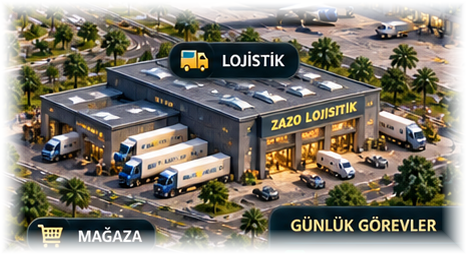
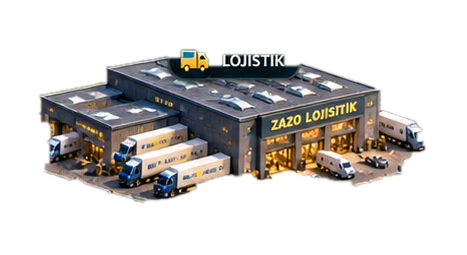
Add files via upload

diff --git a/index.html b/index.html
@@ -3,7 +3,7 @@
 <head>
 <meta charset="utf-8">
 <meta name="viewport" content="width=device-width,initial-scale=1,viewport-fit=cover">
-<title>ZAZO TYCOON 2.3.2 — Clean City</title>
+<title>ZAZO TYCOON 2.4.0 — True Sprite City</title>
 <style>
 *{box-sizing:border-box}
 :root{--gold:#e8be59;--gold2:#ffe8a8;--ink:#030a10;--line:#81662f;--panel:#081d29;--muted:#9fb2ba;--white:#f4f8fa;--danger:#ff8383;--ok:#68dfa1}
@@ -283,7 +283,7 @@ html{background:#02070b}
 body{-webkit-tap-highlight-color:transparent;-webkit-touch-callout:none}
 button{touch-action:manipulation}
 .finalVersion{display:inline-flex;align-items:center;gap:6px;padding:5px 8px;border-radius:999px;border:1px solid #8a6b32;background:#061821d9;color:#ffe2a0;font-size:9px;font-weight:900;letter-spacing:.8px}
-.introTitle:after{content:"2.3.2";display:inline-block;margin-left:10px;font-size:9px;letter-spacing:2px;padding:5px 7px;border-radius:999px;border:1px solid #8d6f34;vertical-align:middle;color:#ffe6a6}
+.introTitle:after{content:"2.4.0";display:inline-block;margin-left:10px;font-size:9px;letter-spacing:2px;padding:5px 7px;border-radius:999px;border:1px solid #8d6f34;vertical-align:middle;color:#ffe6a6}
 .startBrand small{color:#d9c58f}
 @media(max-width:900px){
   .introTitle:after{display:block;width:max-content;margin:10px 0 0}
@@ -563,6 +563,9 @@ button{touch-action:manipulation}
  .aLogistics{right:0;width:18%}.aAirport{right:0;width:24%}
 }
 
+
+/* 2.4 TRUE SPRITES */
+.assetBuilding{border:0!important;background:transparent!important;box-shadow:none!important;overflow:visible!important;border-radius:0!important}.assetBuilding img{width:100%!important;height:100%!important;object-fit:contain!important;filter:drop-shadow(0 16px 9px #0009) saturate(1.06)!important}.assetBuilding:after{display:none!important}.assetLabel{bottom:-12px!important}.aHolding{left:44%;top:25%;width:12%;height:38%}.aBank{left:59%;top:38%;width:12%;height:24%}.aAirport{right:1%;top:27%;width:23%;height:26%}.aLogistics{right:3%;top:53%;width:20%;height:21%}.aStore{right:24%;top:64%;width:16%;height:19%}.aDepot{left:47%;top:64%;width:17%;height:19%}.aFactory{left:25%;top:55%;width:21%;height:29%}.aPort{left:2%;top:43%;width:22%;height:33%}.aTech{left:30%;top:31%;width:13%;height:25%}.aConstruction{left:10%;top:29%;width:18%;height:25%}
 </style>
 </head>
 <body>
@@ -584,7 +587,7 @@ button{touch-action:manipulation}
 
 <div id="start" class="start hidden">
   <div class="startCard">
-    <div class="startBrand">ZAZO TYCOON<small>BUSINESS EMPIRE — 2.3.2</small></div>
+    <div class="startBrand">ZAZO TYCOON<small>BUSINESS EMPIRE — 2.4.0</small></div>
     <div class="startGrid">
       <div class="panel"><h3>İlk şirketini seç</h3><div id="starterSectors" class="sectorPick"></div></div>
       <div class="panel">
@@ -599,7 +602,7 @@ button{touch-action:manipulation}
 </div>
 
 <div id="game" class="game hidden">
-<header class="top"><div class="logo">♛ ZAZO TYCOON<small>BUSINESS EMPIRE — 2.3.2</small></div><div class="hud"><div class="chip">Holding <b id="holding"></b></div><div class="chip">Grup <b id="group"></b></div><div class="chip">Gün <b id="day"></b></div></div></header>
+<header class="top"><div class="logo">♛ ZAZO TYCOON<small>BUSINESS EMPIRE — 2.4.0</small></div><div class="hud"><div class="chip">Holding <b id="holding"></b></div><div class="chip">Grup <b id="group"></b></div><div class="chip">Gün <b id="day"></b></div></div></header>
 <div class="layout"><aside id="rail" class="rail"></aside><main><div class="head"><button id="back" class="back">← Geri</button><div><h1 id="title"></h1><p id="subtitle"></p></div></div><div id="stats" class="stats"></div><div id="stage" class="stage"></div><div id="bottom" class="bottom"></div></main></div>
 </div>
 
@@ -610,7 +613,7 @@ button{touch-action:manipulation}
 const SECTORS=[{"id": "textile", "name": "ZAZO TEKSTİL", "label": "Tekstil", "icon": "🧵", "unlock": 0, "startCash": 2500000, "world": "assets/textile.jpg", "products": [{"name": "Tişört", "raw": "Pamuk + İplik", "rawCost": 70, "makeCost": 22, "basePrice": 220, "baseDemand": 82}, {"name": "Gömlek", "raw": "Kumaş + İplik", "rawCost": 105, "makeCost": 34, "basePrice": 360, "baseDemand": 68}, {"name": "Pantolon", "raw": "Kumaş", "rawCost": 135, "makeCost": 45, "basePrice": 480, "baseDemand": 60}, {"name": "Mont", "raw": "Kumaş + Dolgu", "rawCost": 260, "makeCost": 85, "basePrice": 950, "baseDemand": 44}, {"name": "Premium Takım", "raw": "Premium Kumaş", "rawCost": 420, "makeCost": 160, "basePrice": 1650, "baseDemand": 31}, {"name": "Spor Giyim Seti", "raw": "Teknik Kumaş", "rawCost": 210, "makeCost": 74, "basePrice": 780, "baseDemand": 52}]}, {"id": "construction", "name": "ZAZO İNŞAAT", "label": "İnşaat", "icon": "🏗", "unlock": 18000000, "startCash": 7000000, "world": "assets/construction.jpg", "products": [{"name": "Daire Projesi", "raw": "Demir + Beton", "rawCost": 1700000, "makeCost": 950000, "basePrice": 4200000, "baseDemand": 55}, {"name": "Villa Projesi", "raw": "Yapı Paketi", "rawCost": 2600000, "makeCost": 1400000, "basePrice": 6500000, "baseDemand": 38}, {"name": "Ofis Projesi", "raw": "Demir + Cam + Beton", "rawCost": 3300000, "makeCost": 1750000, "basePrice": 8200000, "baseDemand": 33}, {"name": "Ticari Plaza", "raw": "Yapı + Mekanik Paket", "rawCost": 6400000, "makeCost": 3900000, "basePrice": 15500000, "baseDemand": 20}]}, {"id": "food", "name": "ZAZO GIDA", "label": "Gıda", "icon": "🥫", "unlock": 5000000, "startCash": 2200000, "world": "assets/food.jpg", "products": [{"name": "Hazır Gıda Kolisi", "raw": "Gıda Hammaddesi", "rawCost": 90, "makeCost": 40, "basePrice": 285, "baseDemand": 88}, {"name": "Premium Paket", "raw": "Kaliteli Hammadde", "rawCost": 145, "makeCost": 55, "basePrice": 430, "baseDemand": 63}, {"name": "Dondurulmuş Ürün", "raw": "Gıda + Soğuk Zincir", "rawCost": 175, "makeCost": 75, "basePrice": 520, "baseDemand": 59}, {"name": "İçecek Paketi", "raw": "İçecek Hammaddesi", "rawCost": 120, "makeCost": 42, "basePrice": 360, "baseDemand": 72}, {"name": "Organik Seri", "raw": "Organik Hammadde", "rawCost": 230, "makeCost": 90, "basePrice": 690, "baseDemand": 47}]}, {"id": "auto", "name": "ZAZO OTOMOTİV", "label": "Otomotiv", "icon": "🚗", "unlock": 35000000, "startCash": 12000000, "world": "assets/auto.jpg", "products": [{"name": "Şehir Otomobili", "raw": "Parça Seti", "rawCost": 420000, "makeCost": 170000, "basePrice": 980000, "baseDemand": 58}, {"name": "SUV", "raw": "SUV Parça Seti", "rawCost": 620000, "makeCost": 240000, "basePrice": 1450000, "baseDemand": 46}, {"name": "Elektrikli Sedan", "raw": "EV Parça Seti", "rawCost": 880000, "makeCost": 360000, "basePrice": 1980000, "baseDemand": 40}, {"name": "Premium SUV", "raw": "Premium SUV Parça Seti", "rawCost": 1150000, "makeCost": 450000, "basePrice": 2600000, "baseDemand": 28}, {"name": "Hafif Ticari", "raw": "Ticari Parça Seti", "rawCost": 590000, "makeCost": 220000, "basePrice": 1320000, "baseDemand": 46}]}, {"id": "tech", "name": "ZAZO TEKNOLOJİ", "label": "Teknoloji", "icon": "💻", "unlock": 18000000, "startCash": 4200000, "world": "assets/tech.jpg", "products": [{"name": "Akıllı Telefon", "raw": "Elektronik Parça", "rawCost": 5200, "makeCost": 2300, "basePrice": 14800, "baseDemand": 75}, {"name": "Dizüstü Bilgisayar", "raw": "Bilgisayar Parçası", "rawCost": 12800, "makeCost": 5100, "basePrice": 32900, "baseDemand": 54}, {"name": "Tablet", "raw": "Elektronik Parça", "rawCost": 7300, "makeCost": 2900, "basePrice": 19800, "baseDemand": 60}, {"name": "Akıllı Saat", "raw": "Mikro Elektronik", "rawCost": 2500, "makeCost": 1100, "basePrice": 8200, "baseDemand": 69}, {"name": "Oyun Bilgisayarı", "raw": "Yüksek Performans Parçası", "rawCost": 25500, "makeCost": 8200, "basePrice": 59900, "baseDemand": 35}]}, {"id": "logistics", "name": "ZAZO LOJİSTİK", "label": "Lojistik", "icon": "🚚", "unlock": 8500000, "startCash": 3000000, "world": "assets/logistics.jpg", "products": [{"name": "Şehir İçi Sefer", "raw": "Yakıt + Operasyon", "rawCost": 5200, "makeCost": 1800, "basePrice": 12800, "baseDemand": 84}, {"name": "Uzun Yol Seferi", "raw": "Yakıt + Otoyol", "rawCost": 12000, "makeCost": 4200, "basePrice": 28500, "baseDemand": 62}, {"name": "Soğuk Zincir Seferi", "raw": "Yakıt + Soğutma", "rawCost": 15500, "makeCost": 5800, "basePrice": 36500, "baseDemand": 54}, {"name": "Express Teslimat", "raw": "Yakıt + Öncelikli Operasyon", "rawCost": 8700, "makeCost": 4200, "basePrice": 22800, "baseDemand": 71}, {"name": "Ağır Yük Operasyonu", "raw": "Yakıt + Ağır Nakliye", "rawCost": 24500, "makeCost": 9600, "basePrice": 56500, "baseDemand": 39}]}, {"id": "aviation", "name": "ZAZO HAVACILIK", "label": "Havacılık", "icon": "✈", "unlock": 90000000, "startCash": 25000000, "world": "assets/aviation.jpg", "products": [{"name": "İç Hat Uçuşu", "raw": "Yakıt + Operasyon", "rawCost": 155000, "makeCost": 72000, "basePrice": 390000, "baseDemand": 57}, {"name": "Dış Hat Uçuşu", "raw": "Yakıt + Operasyon", "rawCost": 280000, "makeCost": 125000, "basePrice": 680000, "baseDemand": 43}, {"name": "Premium Yolcu Uçuşu", "raw": "Yakıt + Premium Servis", "rawCost": 420000, "makeCost": 180000, "basePrice": 980000, "baseDemand": 34}, {"name": "Kargo Uçuşu", "raw": "Yakıt + Kargo Operasyonu", "rawCost": 320000, "makeCost": 145000, "basePrice": 790000, "baseDemand": 49}]}, {"id": "space", "name": "ZAZO UZAY", "label": "Uzay", "icon": "🚀", "unlock": 180000000, "startCash": 70000000, "world": "assets/space.jpg", "products": [{"name": "Uydu Fırlatma", "raw": "Roket Bileşeni", "rawCost": 4200000, "makeCost": 2800000, "basePrice": 11800000, "baseDemand": 32}, {"name": "Yörünge Görevi", "raw": "Görev Paketi", "rawCost": 6800000, "makeCost": 4500000, "basePrice": 18500000, "baseDemand": 22}, {"name": "Ay Görevi", "raw": "Derin Uzay Paketi", "rawCost": 14500000, "makeCost": 8500000, "basePrice": 38000000, "baseDemand": 10}, {"name": "Uydu Takımyıldızı", "raw": "Uydu Platformu", "rawCost": 9200000, "makeCost": 5200000, "basePrice": 24500000, "baseDemand": 18}]}, {"id": "energy", "name": "ZAZO ENERJİ", "label": "Enerji", "icon": "⚡", "unlock": 65000000, "startCash": 18000000, "world": "assets/energy.jpg", "products": [{"name": "Şebeke Enerjisi", "raw": "Enerji Kaynağı", "rawCost": 820, "makeCost": 390, "basePrice": 2400, "baseDemand": 80}, {"name": "Yeşil Enerji Paketi", "raw": "Yenilenebilir Kaynak", "rawCost": 1150, "makeCost": 470, "basePrice": 3300, "baseDemand": 66}, {"name": "Güneş Enerjisi Paketi", "raw": "Panel + İnverter", "rawCost": 1650, "makeCost": 710, "basePrice": 4800, "baseDemand": 61}, {"name": "Rüzgar Enerjisi Paketi", "raw": "Türbin Bileşeni", "rawCost": 2800, "makeCost": 1250, "basePrice": 7600, "baseDemand": 49}, {"name": "Endüstriyel Enerji Sözleşmesi", "raw": "Şebeke Operasyonu", "rawCost": 5200, "makeCost": 2200, "basePrice": 13500, "baseDemand": 38}]}, {"id": "mining", "name": "ZAZO MADENCİLİK", "label": "Madencilik", "icon": "⛏", "unlock": 65000000, "startCash": 14000000, "world": "assets/mining.jpg", "products": [{"name": "Demir Cevheri", "raw": "Saha Operasyonu", "rawCost": 1450, "makeCost": 850, "basePrice": 3900, "baseDemand": 70}, {"name": "Bakır Konsantresi", "raw": "Bakır Sahası", "rawCost": 2600, "makeCost": 1350, "basePrice": 6900, "baseDemand": 52}, {"name": "Altın Konsantresi", "raw": "Altın Sahası", "rawCost": 7200, "makeCost": 3500, "basePrice": 18200, "baseDemand": 29}, {"name": "Lityum Cevheri", "raw": "Lityum Sahası", "rawCost": 4800, "makeCost": 2250, "basePrice": 12500, "baseDemand": 45}, {"name": "Nikel Konsantresi", "raw": "Nikel Sahası", "rawCost": 3600, "makeCost": 1700, "basePrice": 9400, "baseDemand": 52}]}];
 const KEY='zazoTycoon_1_0_6';
 
-const RELEASE={name:'ZAZO TYCOON — Business Empire',version:'2.3.2',channel:'stable',build:'2026-09-19'};
+const RELEASE={name:'ZAZO TYCOON — Business Empire',version:'2.4.0',channel:'stable',build:'2026-09-19'};
 
 
 const CONTENT={
@@ -735,7 +738,7 @@ function save(){
   if(window.__offlineBatch)return;
   try{
     normalizeState();
-    state.lastSaved=Date.now();state._version='2.3.2';
+    state.lastSaved=Date.now();state._version='2.4.0';
     const raw=JSON.stringify(state),prev=localStorage.getItem(KEY);
     if(prev && prev!==raw)localStorage.setItem(KEY+'_backup',prev);
     localStorage.setItem(KEY,raw);localStorage.removeItem(KEY+'_skipLegacy');
@@ -1970,7 +1973,7 @@ function releaseTestPanel(){
 function achievementPanel(){openOverlay('🏆 BAŞARILAR','İmparatorluk kilometre taşları.',rows([['İlk şirket','✓'],['3 şirket',state.companies.length>=3?'✓':'—'],['LTD şirket',Math.max(...state.companies.map(x=>x.level))>=3?'✓':'—'],['₺50M grup değeri',totalGroup()>=50000000?'✓':'—'],['%25 Pazar Payı',Math.max(...state.companies.map(x=>x.marketShare||0))>=25?'✓':'—'],['Holding Seviye 3',state.holdingLevel>=3?'✓':'—'],['750+ Kredi Puanı',Math.max(...state.companies.map(x=>x.creditScore||0))>=750?'✓':'—'],['Global Pazar',(state.globalMarkets||[]).length>1?'✓':'—'],['Şirket Satın Alma',(state.acquisitions||[]).length>0?'✓':'—'],['5+ Tesis',Math.max(...state.companies.map(x=>(x.facilities||[]).length))>=5?'✓':'—'],['3+ Lojistik Rota',Math.max(...state.companies.map(x=>(x.routes||[]).length))>=3?'✓':'—'],['Business Empire',state.empireTitle==='BUSINESS EMPIRE'?'✓':'—'],['AŞ Seviyesi',Math.max(...state.companies.map(x=>x.level))>=4?'✓':'—'],['₺10M Yaşam Boyu Kâr',Math.max(...state.companies.map(x=>x.lifetimeProfit||0))>=10000000?'✓':'—'],['Otomatik Müdür',state.companies.some(x=>x.autoManager&&x.autoManager.enabled)?'✓':'—'],['5 Araçlık Filo',Math.max(...state.companies.map(x=>(x.vehicleFleet||[]).length))>=5?'✓':'—'],['%95 Teslimat',Math.max(...state.companies.map(x=>x.deliveryScore||0))>=95?'✓':'—']]))}
 function settingsPanel(){
   const co=c(),issues=v25HealthCheck();
-  openOverlay('⚙ AYARLAR','ZAZO TYCOON Business Empire 2.3.2',
+  openOverlay('⚙ AYARLAR','ZAZO TYCOON Business Empire 2.4.0',
     rows([['Sürüm','2.3.2 CLEAN CITY'],['Otomatik kayıt','Açık'],['3 kayıt slotu','Aktif'],['Otomatik yedek','Aktif'],['Offline ilerleme',BALANCE.offlineMaxMinutes+' dk sınır'],['10 sektör','Aktif'],['Gerçek sektör sahneleri','Aktif'],['Yönetim kurulu','Aktif'],['İhale & kriz','Aktif'],['Sigorta','Aktif'],['365 günlük istatistik','Aktif'],['New Game+','Aktif'],['Veri sağlık durumu',issues.length?issues.length+' uyarı':'OK'],['Zorluk',co.difficulty],['Oyun günü',state.day]])+
     `<div class="field"><label>Zorluk</label><select id="difficulty"><option>Kolay</option><option>Normal</option><option>Zor</option></select></div>
      <button class="primary" id="saveDifficulty">Kaydet</button>
@@ -2156,7 +2159,7 @@ document.addEventListener('visibilitychange',()=>{
 
 function migrateLegacySave(){
   if(localStorage.getItem(KEY+'_skipLegacy'))return;
-  const legacyKeys=['zazoTycoon_2_3_1','zazoTycoon_2_3_0','zazoTycoon_2_2_0','zazoTycoon_2_1_0','zazoTycoon_2_0_0','zazoTycoon_1_0_6','zazoTycoon_1_0_5','zazoTycoon_1_0_4','zazoTycoon_1_0_3','zazoTycoon_1_0_2','zazoTycoon_1_0_1','zazoTycoon_1_0_0','zazoTycoonV25_RC1','zazoTycoonV24_1','zazoTycoonV24','zazoTycoonV23','zazoTycoonV22','zazoTycoonV21','zazoTycoonV20','zazoTycoonV19','zazoTycoonV18','zazoTycoonV17','zazoTycoonV15','zazoTycoonV14','zazoTycoonV13','zazoTycoonV12','zazoTycoonV11','zazoTycoonV10'];
+  const legacyKeys=['zazoTycoon_2_3_2','zazoTycoon_2_3_1','zazoTycoon_2_3_0','zazoTycoon_2_2_0','zazoTycoon_2_1_0','zazoTycoon_2_0_0','zazoTycoon_1_0_6','zazoTycoon_1_0_5','zazoTycoon_1_0_4','zazoTycoon_1_0_3','zazoTycoon_1_0_2','zazoTycoon_1_0_1','zazoTycoon_1_0_0','zazoTycoonV25_RC1','zazoTycoonV24_1','zazoTycoonV24','zazoTycoonV23','zazoTycoonV22','zazoTycoonV21','zazoTycoonV20','zazoTycoonV19','zazoTycoonV18','zazoTycoonV17','zazoTycoonV15','zazoTycoonV14','zazoTycoonV13','zazoTycoonV12','zazoTycoonV11','zazoTycoonV10'];
   if(localStorage.getItem(KEY))return;
   for(const k of legacyKeys){
     const raw=localStorage.getItem(k);

diff --git a/sw.js b/sw.js
@@ -1,4 +1,4 @@
-const CACHE='zazo-tycoon-2.3.2';
+const CACHE='zazo-tycoon-2.4.0';
 const ASSETS=['./','./index.html','./manifest.json','./assets/city/holding.png','./assets/city/bank.png','./assets/city/airport.png','./assets/city/logistics.png','./assets/city/store.png','./assets/city/depot.png','./assets/city/factory.png','./assets/city/port.png','./assets/city/technology.png','./assets/city/construction.png'];
 self.addEventListener('install',e=>e.waitUntil(caches.open(CACHE).then(c=>c.addAll(ASSETS)).then(()=>self.skipWaiting())));
 self.addEventListener('activate',e=>e.waitUntil(caches.keys().then(keys=>Promise.all(keys.filter(k=>k!==CACHE).map(k=>caches.delete(k)))).then(()=>self.clients.claim())));
